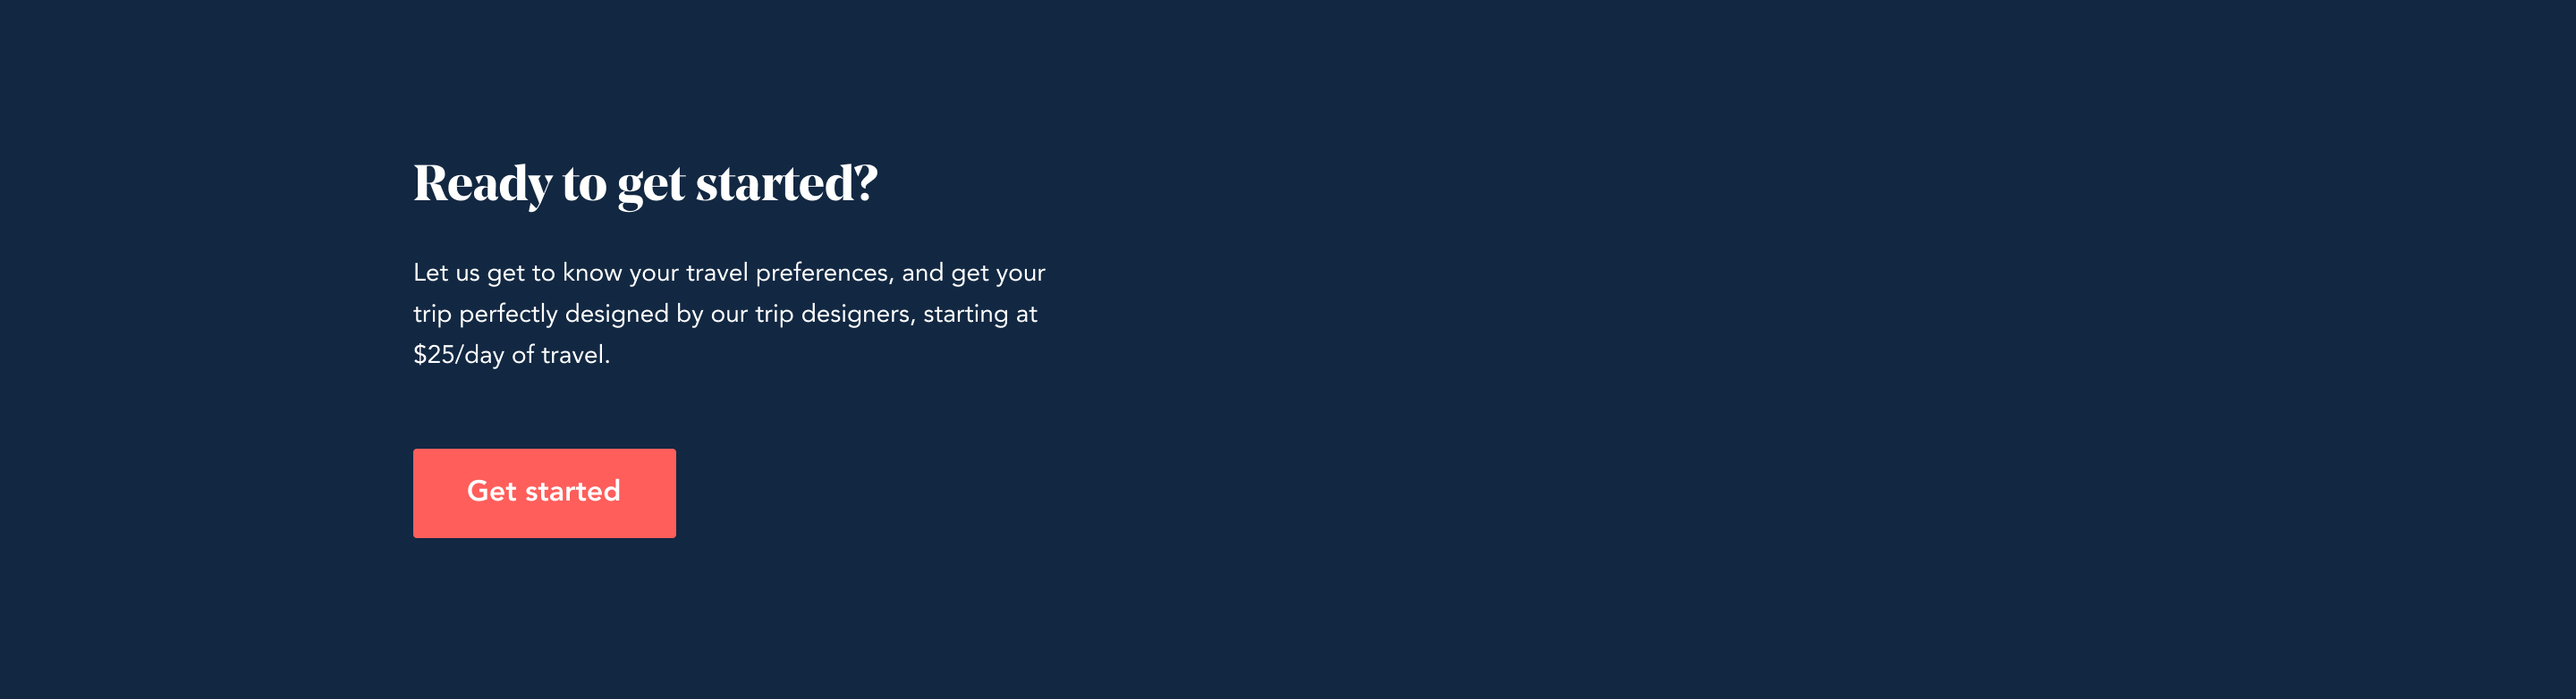
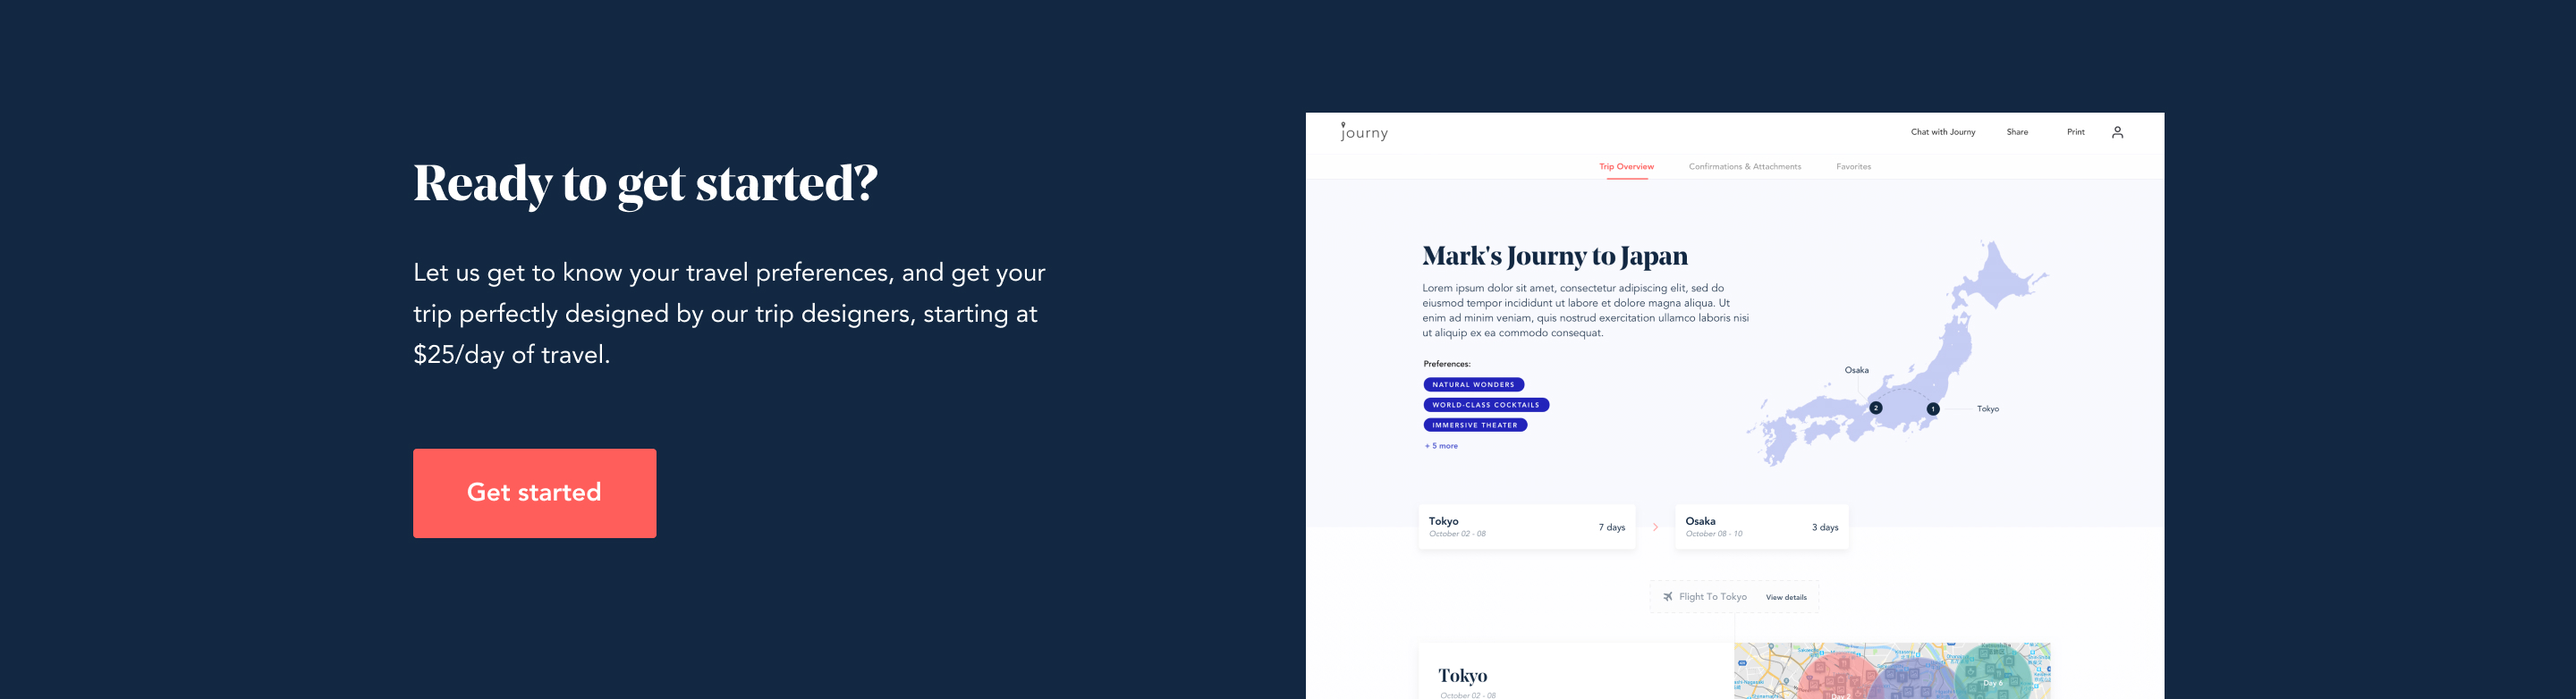
add final touches

Changed region(s): [[0.5, 0.1535, 0.8438, 1.0], [0.1875, 0.6445, 0.2812, 0.7673]]

diff --git a/journy/css/main.css b/journy/css/main.css
@@ -59,6 +59,10 @@ html{
 	scroll-behavior: smooth;
 }
 
+.btn{
+	border-radius: 2px;
+}
+
 .navbar{
 	height: 80px;
 	width: 1440px;
@@ -67,6 +71,7 @@ html{
 	     -o-transition: all .5s ease;
 	    -ms-transition: all .5s ease;
 	        transition: all .5s ease;
+	padding: .5rem 1rem !important;
 }
 
 .navbar-brand{
@@ -119,6 +124,12 @@ html{
   background-color: #FF5E5B ;
 }
 
+.navbar-light .btn-outline-light:hover{
+  color: #fff;
+  border-color: #122842;
+  background-color: #122842 ;
+}
+
 #media .carousel-indicators li:not(.active){
 	opacity: .3;
 }
@@ -164,8 +175,13 @@ html{
 	font-weight: 500;
 }
 
+.btn:not(.btn-link){
+	box-shadow: 0px 1px 1px rgba(0, 0, 0, 0.25);
+}
+
+
 .btn:not(.btn-sm){
-	padding: 1rem 2rem;
+	padding: 15px 30px;
 }
 
 .carousel{
@@ -224,12 +240,16 @@ a{
 	background-color: #FF5E5B;
 	border-color: #FF5E5B;
 }
-.btn-primary:hover{
+.btn-primary:not(.btn-reverse):hover, .btn-primary:not(.btn-reverse):active, .btn-primary:not(:disabled):not(.disabled):active{
 	background-color: #122842;
 	border-color: #122842;
 }
 
-
+.btn-primary.btn-reverse:hover, .btn-primary.btn-reverse:active, .btn-primary.btn-reverse:not(:disabled):not(.disabled):active{
+	background-color: #fff;
+	border-color: #fff;
+	color: #FF5E5B;
+}
 
 #media{
 	height: 250px;
@@ -456,6 +476,32 @@ a{
 	height: 50px;
 	margin-left: -50px;
 }
+.btn-outline-secondary {
+    color: #122842;
+    border-color: #122842;
+    background-color: #fff;
+}
+
+.btn-outline-secondary:hover, .btn-outline-secondary:active, .btn-outline-secondary:not(:disabled):not(.disabled):active{
+	background-color: #122842;
+	border-color: #122842;
+}
+
+.btn-outline-secondary:not(:disabled):not(.disabled):active:focus, .btn-primary:not(:disabled):not(.disabled):active:focus{
+	box-shadow: none;
+}
+
+.testimonial1 .btn-outline-secondary{
+	left: 130px;
+	top: 840px;
+	position: absolute;
+}
+
+.testimonial2 .btn-outline-secondary{
+	left: 130px;
+	top: 885px;
+	position: absolute;
+}
 
 #experts{
 	background-image: url(../img/experts.jpg);
@@ -464,6 +510,16 @@ a{
 	height: 900px;
 	position: relative;
 	background-repeat:no-repeat;
+}
+.meet-experts{
+	left: 230px;
+	top: 730px;
+	position: absolute;
+}
+.meet-team{
+	left: 830px;
+    top: 730px;
+	position: absolute;
 }
 #why{
 	background-image: url(../img/why.jpg);
@@ -481,6 +537,28 @@ a{
 	position: relative;
 	background-repeat:no-repeat;
 }
+#pricing .journy-lite{
+	left: 372px;
+	top: 354px;
+	position: absolute;
+}
+
+#pricing .journy-full{
+	left: 763px;
+    top: 354px;
+	position: absolute;
+}
+
+#pricing .free-advice{
+	left: 639px;
+    top: 840px;
+	position: absolute;
+}
+
+.btn-outline-secondary.focus, .btn-outline-secondary:focus{
+	box-shadow: none;
+}
+
 #faq{
 	padding: 90px 0;
 	background-color: #F5F8FC;
@@ -559,6 +637,66 @@ a{
 	position: relative;
 	background-repeat:no-repeat;
 }
+.inspirations-destination{
+	width: 180px;
+	height: 240px;
+	display: inline-block;
+}
+
+.inspirations-japan{
+	background-image: url(../img/inspirations/japan.png);
+	background-size: 100%;
+	background-repeat:no-repeat;
+	left: 130px;
+	top: 212px;
+	position: absolute;
+}
+
+.inspirations-italy{
+	background-image: url(../img/inspirations/italy.png);
+	background-size: 100%;
+	background-repeat:no-repeat;
+	left: 331px;
+	top: 212px;
+	position: absolute;
+}
+
+.inspirations-spain{
+	background-image: url(../img/inspirations/spain.png);
+	background-size: 100%;
+	background-repeat:no-repeat;
+	left: 530px;
+	top: 212px;
+	position: absolute;
+}
+
+.inspirations-taiwan{
+	background-image: url(../img/inspirations/taiwan.png);
+	background-size: 100%;
+	background-repeat:no-repeat;
+	left: 730px;
+	top: 212px;
+	position: absolute;
+}
+
+.inspirations-greece{
+	background-image: url(../img/inspirations/greece.png);
+	background-size: 100%;
+	background-repeat:no-repeat;
+	left: 930px;
+	top: 212px;
+	position: absolute;
+}
+
+.inspirations-austria{
+	background-image: url(../img/inspirations/austria.png);
+	background-size: 100%;
+	background-repeat:no-repeat;
+	left: 1130px;
+	top: 212px;
+	position: absolute;
+}
+
 #ready{
 	background-image: url(../img/ready/ready.jpg);
 	background-size: 100%;
@@ -567,6 +705,12 @@ a{
 	position: relative;
 	background-repeat:no-repeat;
 }
+#ready .get-started{
+	left: 231px;
+	top: 251px;
+	position: absolute;
+}
+
 .ready-itinerary{
 	background-image: url(../img/ready/ready-itinerary.jpg);
 	background-size: 100%;
@@ -594,6 +738,55 @@ a{
 	position: relative;
 	background-repeat:no-repeat;
 }
+#not-ready .sample-itinerary{
+	left: 623px;
+	top: 234px;
+	position: absolute;
+}
+
+#sample-itinerary-modal .modal-dialog{
+	max-width: 725px;
+}
+#sample-itinerary-modal .modal-header{
+	border-bottom: none;
+}
+#sample-itinerary-modal .modal-content{
+	width: 725px;
+	height: 519px;
+	background-image: url(../img/sample-itinerary-popup.png);
+	background-repeat:no-repeat;
+	background-size: contain;
+	background-color: rgba(255,255,255,0);
+	border: none; 
+    border-radius: 0; 
+}
+.modal-backdrop{
+	background-color: #fff;
+}
+
+
+#sample-itinerary-modal .modal-dialog .close{
+	background-image: url(../img/modal-close.png);
+	background-repeat:no-repeat;
+	background-size: contain;
+	width: 21px;
+	height: 21px;
+	left: -25px;
+	position: relative;
+	top: 18px;
+}
+
+#sample-itinerary-modal .modal-dialog .close span{
+	display: none;
+}
+#sample-itinerary-modal.modal.fade .modal-dialog {
+    transition: -webkit-transform .3s ease-out;
+    transition: transform .3s ease-out;
+    transition: transform .3s ease-out,-webkit-transform .3s ease-out;
+    -webkit-transform: translate(0,0);
+    transform: translate(0,0);
+}
+
 #footer{
 	background-image: url(../img/footer.jpg);
 	background-size: 100%;

diff --git a/journy/index.html b/journy/index.html
@@ -52,13 +52,13 @@
             <a class="nav-link" href="#pricing">Pricing</a>
           </li>
           <li class="nav-item">
-            <a class="nav-link" href="#">Travel inspirations</a>
+            <a class="nav-link" href="https://gojourny.com/stories/" target="_blank">Travel inspirations</a>
           </li>
           <li class="nav-item">
-            <a class="nav-link" href="#">Log in</a>
+            <a class="nav-link" href="#">Sign in</a>
           </li>
         </ul>
-        <a class="nav-link call" href="#">Talk to a travel expert for free</a>
+        <a class="nav-link call" href="https://calendly.com/gojourny/travelconsultation" target="_blank">Talk to a travel expert for free</a>
         <a class="btn btn-sm btn-outline-light" href="https://gojourny.com/itinerary_request/new" target="_blank" role="button">Get Started</a>
 
       </div>
@@ -209,14 +209,14 @@
       <div class="carousel-item active">
         <div class="testimonial testimonial1">
         	<a href="https://gojourny.com/new_itineraries/qwq" target="_blank" class="testimonial1-map"></a>
-        	<a href="https://gojourny.com/new_itineraries/qwq" target="_blank" class="testimonial1-button"></a>
+          <a class="btn btn-outline-secondary" href="https://gojourny.com/new_itineraries/qwq" target="_blank" role="button">See Zach’s itinerary</a>
         </div>
 
       </div>
       <div class="carousel-item">
         <div class="testimonial testimonial2">
         	<a href="https://gojourny.com/new_itineraries/8OKk" target="_blank" class="testimonial2-map"></a>
-        	<a href="https://gojourny.com/new_itineraries/8OKk" target="_blank" class="testimonial2-button"></a>
+        	<a class="btn btn-outline-secondary" href="https://gojourny.com/new_itineraries/8OKk" target="_blank" class="button">See Julia's itinerary</a>
         </div>
       </div>
     </div>
@@ -230,10 +230,15 @@
       </a>
  	</div>
   <div id="experts">
+    <a class="btn btn-outline-secondary meet-experts" href="https://gojourny.com/journyists" target="_blank" role="button">Meet all experts</a>
+    <a class="btn btn-outline-secondary meet-team" href="https://gojourny.com/about" target="_blank" role="button">Meet our team</a>
   </div>
   <div id="why">
   </div>
   <div id="pricing">
+    <a class="btn btn-outline-secondary journy-lite" href="https://gojourny.com/itinerary_request/new" target="_blank" role="button">Select Journy Lite</a>
+    <a class="btn btn-primary journy-full" href="https://gojourny.com/itinerary_request/new" target="_blank" role="button">Select Journy Full</a>
+    <a class="btn btn-outline-secondary free-advice" href="https://calendly.com/gojourny/travelconsultation" target="_blank" role="button">Get free advice</a>
   </div>
   <div id="faq">
   	<h2 class="text-center">FAQ</h2>
@@ -364,13 +369,32 @@
   <div id="special-occasions">
   </div>
   <div id="inspirations">
+    <a class="inspirations-japan inspirations-destination" href="http://experiences.gojourny.com/japan/" target="_blank"></a>
+    <a class="inspirations-italy inspirations-destination" href="http://experiences.gojourny.com/italy/" target="_blank"></a>
+    <a class="inspirations-spain inspirations-destination" href="http://experiences.gojourny.com/spain/" target="_blank"></a>
+    <a class="inspirations-taiwan inspirations-destination" href="http://taiwan.gojourny.com/" target="_blank"></a>
+    <a class="inspirations-greece inspirations-destination" href="http://greece.gojourny.com/" target="_blank"></a>
+    <a class="inspirations-austria inspirations-destination" href="http://austria.gojourny.com/" target="_blank"></a>
   </div>
   <div id="ready">
+    <a class="btn btn-primary get-started btn-reverse" href="https://gojourny.com/itinerary_request/new" target="_blank" role="button">Get Started</a>
     <div class="ready-itinerary">
         <video id="ready-itinerary-video" class="active" loop="loop" muted="muted" autoplay="autoplay" style="transform: matrix(1, 0, 0, 1, 0, -162);"><source src="img/ready/20190319_Journy_Overview.mp4"></video>
     </div>
   </div>
   <div id="not-ready">
+    <button type="button" class="btn btn-primary sample-itinerary" data-toggle="modal" data-target="#sample-itinerary-modal" href="https://calendly.com/gojourny/travelconsultation" target="_blank" role="button">Get sample itinerary</button>
+  </div>
+  <div class="modal fade" id="sample-itinerary-modal" tabindex="-1" role="dialog" aria-labelledby="sampleItineraryModal" aria-hidden="true">
+    <div class="modal-dialog modal-dialog-centered" role="document">
+      <div class="modal-content">
+        <div class="modal-header">
+          <button type="button" class="close" data-dismiss="modal" aria-label="Close">
+            <span aria-hidden="true">&times;</span>
+          </button>
+        </div>
+      </div>
+    </div>
   </div>
   <div id="footer">
   </div>
@@ -399,6 +423,9 @@
 	    document.getElementById("navbar").classList.add('navbar-dark');
 	    document.getElementById("navbar").classList.remove('navbar-light');
 	  }
+    if (document.body.scrollTop > 2000 || document.documentElement.scrollTop > 2000) {
+      $('#sample-itinerary-modal').modal('show');
+    }
 	}
 </script>
     </body>
